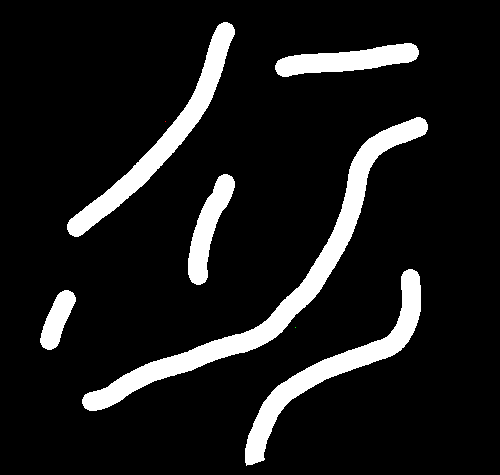
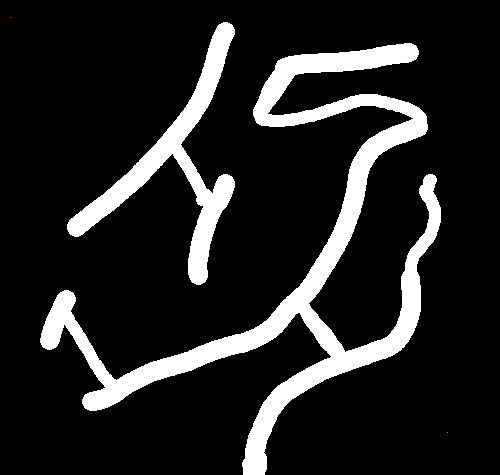
Edited map to visualize better. Made few edits to PathFinder

diff --git a/src/PathFinder.java b/src/PathFinder.java
@@ -126,43 +126,44 @@ public class PathFinder extends JPanel {
 			}
 		}
         
+        if (currentAlgorithm != null) {
         
-        for (int i = 0; i < currentAlgorithm.getNodes().size(); i++) {
-        	
-        	g.setColor(currentAlgorithm.getNodes().get(i).getNodeColor());
-        	int radius = 2;
-        	
-        	if (!currentAlgorithm.getNodes().get(i).isOpen()) {
-        		g.setColor(NODE_NON_TRAVERSEABLE_COLOR);
-        	}
-        	
-        	if (i == 0) {
-        		g.setColor(START_COLOR);
-        		radius = 6;
-        	} else if (i == currentAlgorithm.getNodes().size() - 1) {
-        		g.setColor(END_COLOR);
-        		radius = 6;
-        	}
-        	
-        	g.fillOval(currentAlgorithm.getNodes().get(i).getX() + offset - (int)(radius/2), 
-        			   currentAlgorithm.getNodes().get(i).getY() + offset - (int)(radius/2), 
-        			   radius, radius);
-        	
+	        for (int i = 0; i < currentAlgorithm.getNodes().size(); i++) {
+	        	
+	        	g.setColor(currentAlgorithm.getNodes().get(i).getNodeColor());
+	        	int radius = 2;
+	        	
+	        	if (!currentAlgorithm.getNodes().get(i).isOpen()) {
+	        		g.setColor(NODE_NON_TRAVERSEABLE_COLOR);
+	        	}
+	        	
+	        	if (i == 0) {
+	        		g.setColor(START_COLOR);
+	        		radius = 6;
+	        	} else if (i == currentAlgorithm.getNodes().size() - 1) {
+	        		g.setColor(END_COLOR);
+	        		radius = 6;
+	        	}
+	        	
+	        	g.fillOval(currentAlgorithm.getNodes().get(i).getX() + offset - (int)(radius/2), 
+	        			   currentAlgorithm.getNodes().get(i).getY() + offset - (int)(radius/2), 
+	        			   radius, radius);
+	        	
+	        }
+	
+	        if (currentAlgorithm.getPath() != null) {
+	        	
+	        	g.setColor(LINE_COLOR);
+	        	
+	        	for (int i = 0; i < currentAlgorithm.getPath().size() - 1; i++) {
+	
+	        		Node fromNode = currentAlgorithm.getPath().get(i);
+	        		Node toNode = currentAlgorithm.getPath().get(i + 1);
+	
+	        		g.drawLine(fromNode.getX() + offset, fromNode.getY() + offset, toNode.getX() + offset, toNode.getY() + offset);
+	        	}
+	        }
         }
-
-        if (currentAlgorithm.getPath() != null) {
-        	
-        	g.setColor(LINE_COLOR);
-        	
-        	for (int i = 0; i < currentAlgorithm.getPath().size() - 1; i++) {
-
-        		Node fromNode = currentAlgorithm.getPath().get(i);
-        		Node toNode = currentAlgorithm.getPath().get(i + 1);
-
-        		g.drawLine(fromNode.getX() + offset, fromNode.getY() + offset, toNode.getX() + offset, toNode.getY() + offset);
-        	}
-        }
-        
     }
 	
 }

diff --git a/src/Main.java b/src/Main.java
@@ -12,8 +12,8 @@ public class Main {
 		JFrame frame = generateFrame(pathFinderPanel);
 		frame.add(pathFinderPanel);
 		
-//		pathFinderPanel.setAlgorithm(new AStar());
-		pathFinderPanel.setAlgorithm(new RBT());
+		pathFinderPanel.setAlgorithm(new AStar());
+//		pathFinderPanel.setAlgorithm(new RBT());
 		pathFinderPanel.runAlgorithm();
 	}
 
